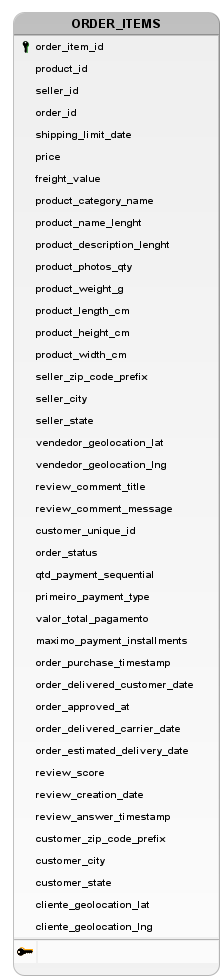
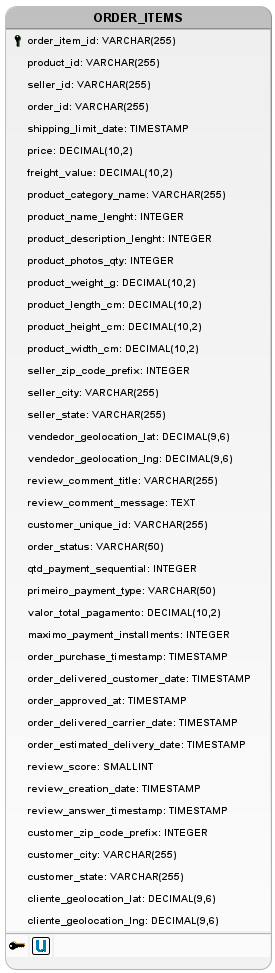
fix tipos Silver

Changed region(s): [[0.0, 0.0, 0.9955, 1.0]]

diff --git a/DataLayer/Silver/MER & dicionario de dados.md b/DataLayer/Silver/MER & dicionario de dados.md
@@ -51,10 +51,10 @@ O Diagrama Lógico de Dados (DLD) é uma representação gráfica que descreve a
 
 | Coluna | Tipo SQL | Nulo? | Descrição | Fonte / Observações |
 |---|---:|---:|---|---|
-| order_item_id | INTEGER PRIMARY KEY | NOT NULL | Identificador único do item (PK no Silver). | Origem: `order_items` — atenção: no raw era sequencial por `order_id`; aqui é chave única por linha. |
-| product_id | INTEGER | NOT NULL | Identificador do produto. | Mapeado de `order_items.product_id`. No raw é UUID/string; aqui aparece como INTEGER no DDL — confirmar transformação/encoding. |
-| seller_id | INTEGER | NOT NULL | Identificador do vendedor. | Mapeado de `order_items.seller_id`. Verificar encoding (raw UUID → inteiro?). |
-| order_id | INTEGER | NOT NULL | Identificador do pedido. | `orders.order_id` no raw (UUID). Aqui é INTEGER — confirmar transformação. |
+| order_item_id | VARCHAR(255) PRIMARY KEY | NOT NULL | Identificador único do item (PK no Silver). | Origem: `order_items` — atenção: no raw era sequencial por `order_id`; aqui é chave única por linha. |
+| product_id | VARCHAR(255) | NOT NULL | Identificador do produto. | Mapeado de `order_items.product_id` |
+| seller_id | VARCHAR(255) | NOT NULL | Identificador do vendedor. | Mapeado de `order_items.seller_id` |
+| order_id | VARCHAR(255) | NOT NULL | Identificador do pedido. | `orders.order_id` |
 | shipping_limit_date | TIMESTAMP | NULLABLE | Prazo limite para envio informado pelo seller. | `order_items.shipping_limit_date` |
 | price | DECIMAL(10,2) | NULLABLE | Preço do item (R$). | `order_items.price` |
 | freight_value | DECIMAL(10,2) | NULLABLE | Valor do frete (R$). | `order_items.freight_value` |
